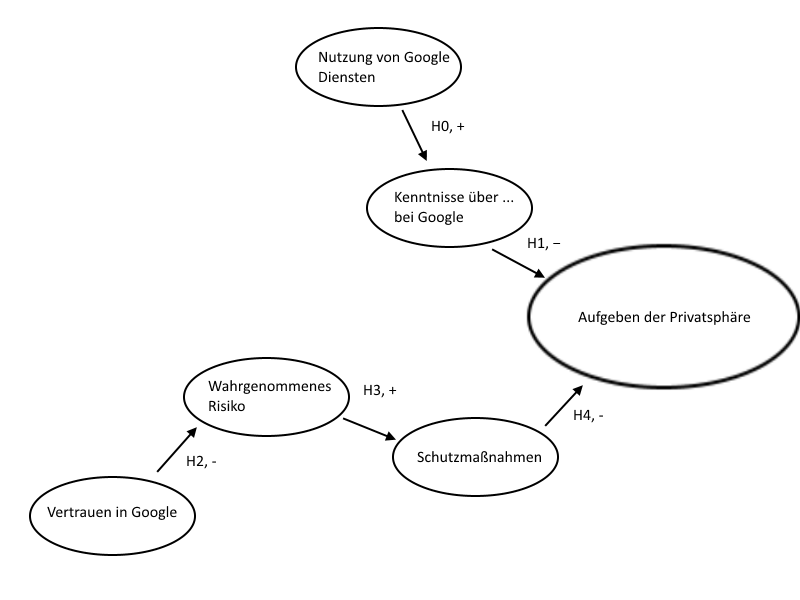
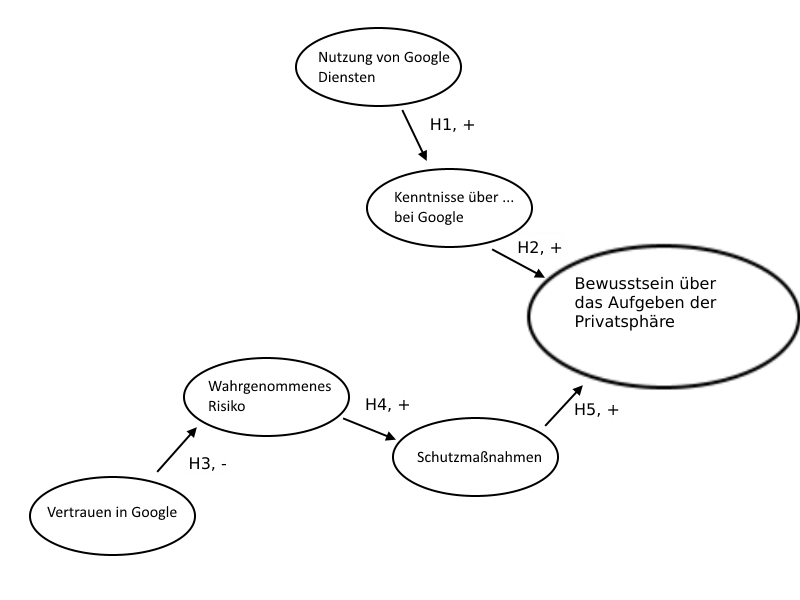
kleinere fixe und neues hypothesen zeugs

diff --git a/results.tex b/results.tex
@@ -102,8 +102,8 @@ Die weiteren demographischen Ergebnisse sind der Übersichtlichkeit halber in Ta
 Bei Betrachtung des Konstrukts \glqq Nutzung der Google Dienste\grqq\ fällt sofort auf, dass diese sehr aktiv genutzt werden. Auf \glqq Wie aktiv nutzen Sie die folgenden Dienste? Google Suche:\grqq\ antworteten fast 90\% mit 4 und 5, 74,7\% antworteten mit 5. Auch nutzen über die Hälfte der Umfrageteilnehmer (58,9\%) Android mit einer Aktivität von 4 oder 5.
 
 Die Dienste die tatsächlich zu Google gehören wurden von einem großem Anteil der Teilnehmer auch Google zugeordnet. Android, Picasa, Google+, Hangouts, Gmail, Youtube und Chrome wurden je von mehr als 50\% der Teilnehmern Google zugeordnet. Dabei ist die Zugehörigkeit von Picasa zu Google mit 51,2\% am unbekanntesten, Google+ und Gmail sind mit 97,6\% und 92,4\% am häufigsten angewählt worden. Die Dienste die nicht zu Google gehören wurden auch zum Großteil nicht zugeordnet, den größten Wert hat Whatsapp mit 6,4\%, was ein sehr geringer Wert ist.
+Die Mehrheit der Teilnehmer (64,7\%) besitzt einen Google Account, 21,7\% besitzen zwei oder mehr Accounts .
 
-Die Mehrheit der Teilnehmer (64,7\%) besitzt einen Google Account, 21,7\% besitzen zwei oder mehr Accounts .\\
 Auch das Wissen der Umfrageteilnehmer zu Google ist zum Großteil gut. So wissen 85,9\% der Teilnehmer, dass Google auf Nutzer zugeschnittene Werbung anbietet und nur 3,0\% sind der Meinung, dass Google dies nicht tut. Ein ähnliches Bild zeigt sich bei der Frage nach den auf Nutzer zugeschnittenen Suchergebnissen. Hier sind mit 81,0\%  weniger der Teilnehmer der Meinung, dass Google dies anbietet, aber eine Rate von über 80\% ist immer noch als hoch anzusehen (siehe Tabelle \ref{fittingAdsAndSearch}).\\
 \begin{table}
 	\begin{tabular}[]{ l | l | c | c}
@@ -221,6 +221,13 @@ Die kürzere Variante um den Phi-Koeffizienten zu berechnen ist: $\phi = \sqrt{\
 
 Als weitere Methode tritt der Zusammenhangskoeffizient V nach Cramer auf. Er wird durch die folgende Formel bestimmt: $V = \sqrt{\frac{\chi^2}{n \cdot (min(l,k) - 1)}}$. Die Variable k entspricht hier der Anzahl der Kategorien der Zeilenvariablen, l der Anzahl der Kategorien der Spaltenvariablen. Diese Berechnung hat den Vorteil, dass sie auch bei Tabellen die größer als 2x2 sind funktioniert.
 
+\subsection{Pearson}
+\label{pearson}
+Die Pearson-r-Korrelation kann verwendet werden, um eine Beziehung zwischen zwei Variablen aufzustellen, die mindestens intervallskaliert sind. Sie geht auf Karl Pearson und Auguste Bravais zurück und berechnet sich mit der Formel $r = \frac{cov(x,y)}{s_x \cdot s_y}$ (nach \citet{statistikeinfuehrung}). Hierbei ist $cov(x,y)$ die Kovarianz der Variablen x und y, und $s_x$ und $s_y$ sind die Standardabweichungen von x und y.
+
+Mittels der Pearson Prüfgröße, die sich mit $t = \frac{r \cdot \sqrt[]{n - 2}}{\sqrt[]{1 - r^2}}$ berechnen lässt, kann nun die statistische Signifikanz dieser Korrelation bestimmt werden. Hierbei ist r der Wert den die Pearson-Korrelation ergeben hat und n die Anzahl der Untersuchungseinheiten.
+
+\subsection{Stärke des Zusammenhanges}
 Sämtliche Korrelationen werden nach \citet{statistikeinfuehrung} anhand Tabelle \ref{correlationrelevance} bewertet.
 
 \begin{table}
@@ -297,9 +304,32 @@ Die aufgeführten Argumente lassen darauf schließen, dass die Hypothese zwar ni
 	\caption{Wie viele Google Accounts besitzen Sie? x Bietet Google die Möglichkeit den eigenen Account zu löschen?}\label{4samountdelete}
 \end{table}
 
+\textit{Je mehr eine Person über Googles Datenschutz weiß, desto bewusster ist ihr das Aufgeben der Privatsphäre. (H2, \ref{itm:H1})}
 
-TODO AREA:\\
-"Meine Daten sind bei Google sicher" und "Durch die Nutzung von Google Diensten gebe ich zu viel von meiner Privatsphäre auf" korrelieren nur relativ schwach mit r(854) = -0.29. Es ergibt sich also eine indirekte Korrelation, die allerdings nur sehr schwach ist. Eine leichte Tendenz ist dennoch vorhanden.
+Tabelle \ref{4sadsprivacy} zeigt auf, dass \glqq Bietet Google auf Nutzer zugeschnittene Werbung an?\grqq\ und \glqq Durch die Nutzung von Google Diensten gebe ich zu viel meiner Privatsphäre auf?\grqq\ mit dem $\chi^2$-Test nur mit $\phi = 0,09$ korrelieren. Es kann also keine Korrelation nachgewiesen werden.
+\begin{table}
+	\begin{tabular}[]{l c | c | c | c | c | c }
+	& & \multicolumn{5}{c}{Durch die Nutzung von Google Diensten}\\
+	& & \multicolumn{5}{c}{gebe ich zu viel meiner Privatsphäre auf}\\\hline
+	& & 1 & 2 & 3 & 4 & 5\\\hline
+	Bietet Google auf & Ja & 53 & 158 & 248 & 172 & 104 \\
+	Nutzer zugeschnittene & Nein & 3 & 6 & 11 & 4 & 2 \\
+	Werbung an? & Weiß nicht & 8 & 24 & 38 & 16 & 9 \\
+	& Gesamt & 64 & 188 & 297 & 192 & 116\\ \hline \hline
+	Chi-Quadrat: & 6,95 & & & & &\\
+	Signifikanz: & 0,54 & & & & &\\
+	Nominal bzgl. Phi: & 0,09&&&&&\\ \hline
+	\end{tabular}
+	\caption{Durch die Nutzung von Google Diensten gebe ich zu viel meiner Privatsphäre auf}\label{4sadsprivacy}
+\end{table}
+
+Wenn man die gleiche Rechnung mit \glqq Bietet Google auf Nutzer zugeschnittene Suchergebnisse an?\grqq\ statt \glqq Werbung\grqq\ durchführt, ergibt sich eine etwas stärkere Korrelation mit $\phi = 0,17$, was geringen Korrelation entspricht. Dieser Wert ist mit einer Signifikanz von 0,002 statistisch signifikant.
+
+Die Hypothese kann also angenommen werden, die Korrelation ist allerdings nur sehr schwach.
+
+\textit{Je höher das Vertrauen in Google ist, desto geringer wird das Risiko eingeschätzt. (H3, \ref{itm:H2})}
+
+Hier lässt sich mithilfe der Pearson-Korrelation \ref{pearson} zwischen \glqq Meine Daten sind bei Google sicher\grqq\ und \glqq Google bietet mir ausreichen Möglichkeiten meine Privatsphäre zu schützen\grqq\ eine Korrelation von 0,58 berechnen. Dieser Wert gilt als ein hoher Zusammenhang. Des weiteren ergibt sich eine zweiseitige Signifikanz von 0,00 - somit ist diese Korrelation statistisch signifikant. Damit lässt sich die Hypothese akzeptieren.
 
 \section{Forschungsfragen}
 

diff --git a/methodology.tex b/methodology.tex
@@ -26,7 +26,7 @@ Um die Forschungsfragen sinnvoll zu beantworten wurden Konstrukte definiert, die
 Nach der Entwicklung der Konstrukte wurden Hypothesen aufgestellt, um diese miteinander in Verbindung zu bringen und die Forschungsfragen zu beantworten.
 \begin{description}
 \item[\label{itm:H0}\textbf{H1}]Je aktiver eine Person Google nutzt, desto mehr Kenntnisse über Googles Datenschutz bekommt sie.
-\item[\label{itm:H1}\textbf{H2}]Je mehr eine Person über Googles Datenschutz weiß, desto seltener gibt sie Teile ihrer Privatsphäre auf
+\item[\label{itm:H1}\textbf{H2}]Je mehr eine Person über Googles Datenschutz weiß, desto bewusster ist ihr das Aufgeben der Privatsphäre.
 \item[\label{itm:H2}\textbf{H3}]Je höher das Vertrauen in Google ist, desto geringer wird das Risiko eingeschätzt.
 \item[\label{itm:H3}\textbf{H4}]Je höher das Risiko eingeschätzt wird, desto mehr Schutzmaßnahmen werden unternommen.
 \item[\label{itm:H4}\textbf{H5}]Je mehr Schutzmaßnahmen eine Person verwendet, desto bewusster ist ihr das Aufgeben der Privatsphäre.
